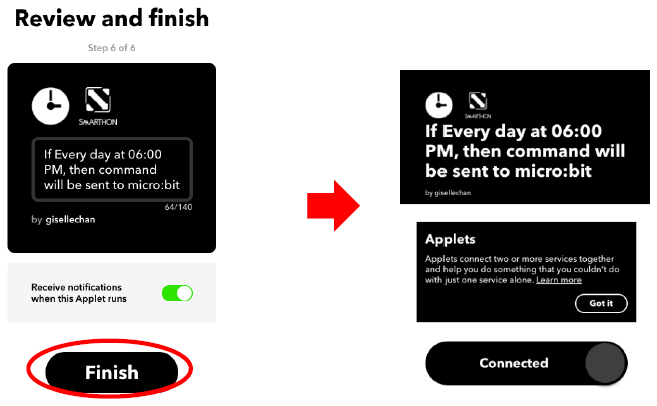
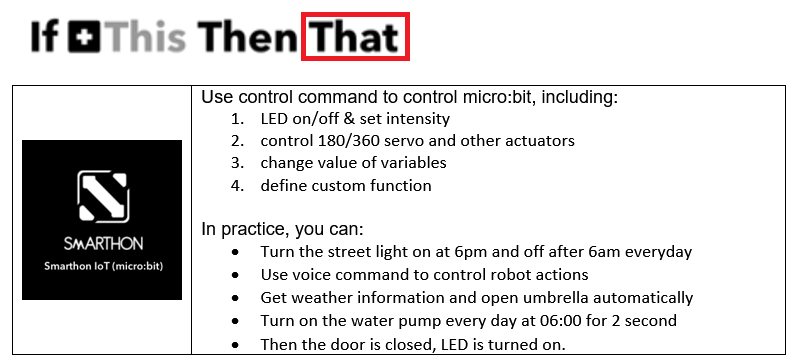
update ch4

diff --git a/docs/smartcity/chapter4.md b/docs/smartcity/chapter4.md
@@ -1,15 +1,32 @@
 # Chapter 4: Cloud Control micro:bit by IFTTT
 
-In this chapter , you will learn how to use trigger (other services) to implement action (micro:bit) by IFTTT. Below are the commonly used examples of services that can trigger micro:bit in IFTTT. <BR><P>
-![auto_fit](images/Ch4/Ch4_des1.png)<P>
- 
-## Examples of services used in IFTTT
-<HR>
+In this chapter, you will know how to control micro:bit from the IFTTT cloud. Once there are some changes on Internet services like weather, time or different connected devices like voice assistant and some smart home device, you can send the command to micro:bit to do the action. <BR><P>
 
-With connection with different services in IFTTT, you can design your own applet with micro:bit projects using “if this then that (micro:bit)”. <BR><P>
-![auto_fit](images/Ch4/Ch4_des2.png)<P>
-You can tailor-make your own micro:bit projects by connecting Smarthon IoT (micro:bit) to over hundreds of services in cloud (IFTTT)! Create your IFTTT applet by choosing “If THIS then THAT”.<BR><P>
-![auto_fit](images/Ch4/Ch4_des3.png)<P>
+## Scenario Example
+
+Example: The micro:bit is connected to the Internet. Once the time is changed to 6 pm, the IFTTT cloud will send the command to the micro:bit to turn on the LED.
+
+![auto_fit](images/Ch4/Ch4_2_ifttt0.png)<P>
+
+On IFTTT configuration, set the IFTTT Applet:
+
+![auto_fit](images/Ch4/Ch4_2_ifttt1.png)<P>
+
+In this example:<BR>
+If "it is 6pm today", then"turn on the light"
+![auto_fit](images/Ch4/Ch4_2_ifttt1_5.png)<P>
+
+<B>A. Trigger Part</B><BR>
+The below are the most common internet service or connected device that can control back the micro:bit. Or course, there are tons of the connected things/services you can control micro:bit.<P>
+![auto_fit](images/Ch4/Ch4_2_ifttt2.png)<P>
+
+<B>B. Action Part</B><BR>
+With connection with different services in IFTTT, you can design your own applet with micro:bit projects using “if this then that (micro:bit)”. <P>
+
+![auto_fit](images/Ch4/Ch4_2_ifttt3.png)<P>
+
+
+ 
 
 
 ## Coding
@@ -75,8 +92,9 @@ MakeCode: [https://makecode.microbit.org/#pub:_7dc5R9WHyFbd](https://makecode.mi
 You could also download the program from the following website:<BR>
 <iframe src="https://makecode.microbit.org/#pub:_7dc5R9WHyFbd" width="100%" height="500" frameborder="0"></iframe>
 
+<P>
 
-## Create your own Applet to control micro:bit in IFTTT
+## IFTTT Applet Configuration
 <HR>
 
 <H3>Goal:</H3>
